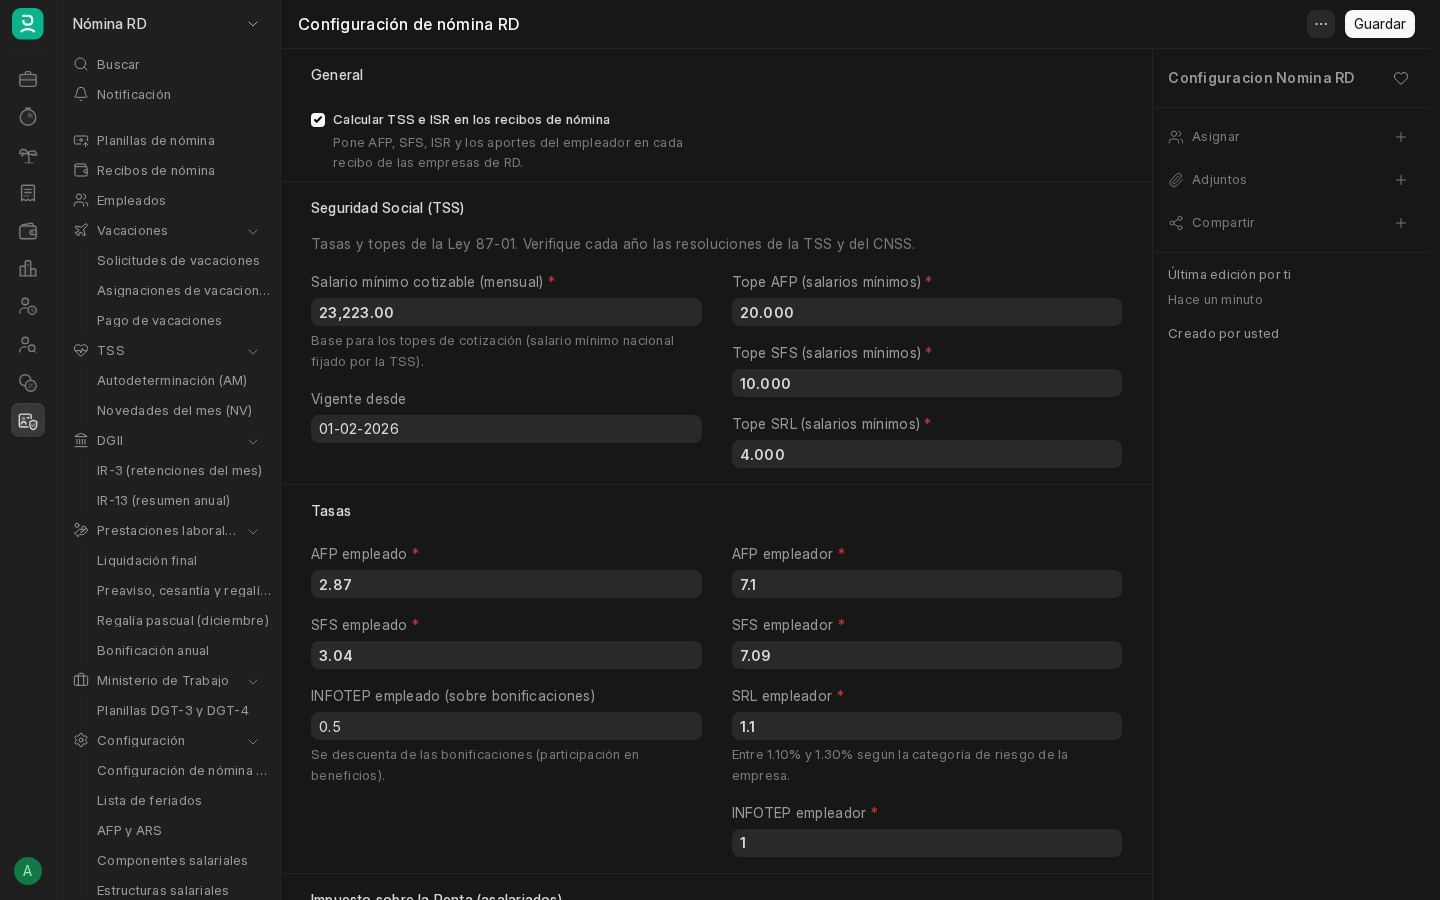
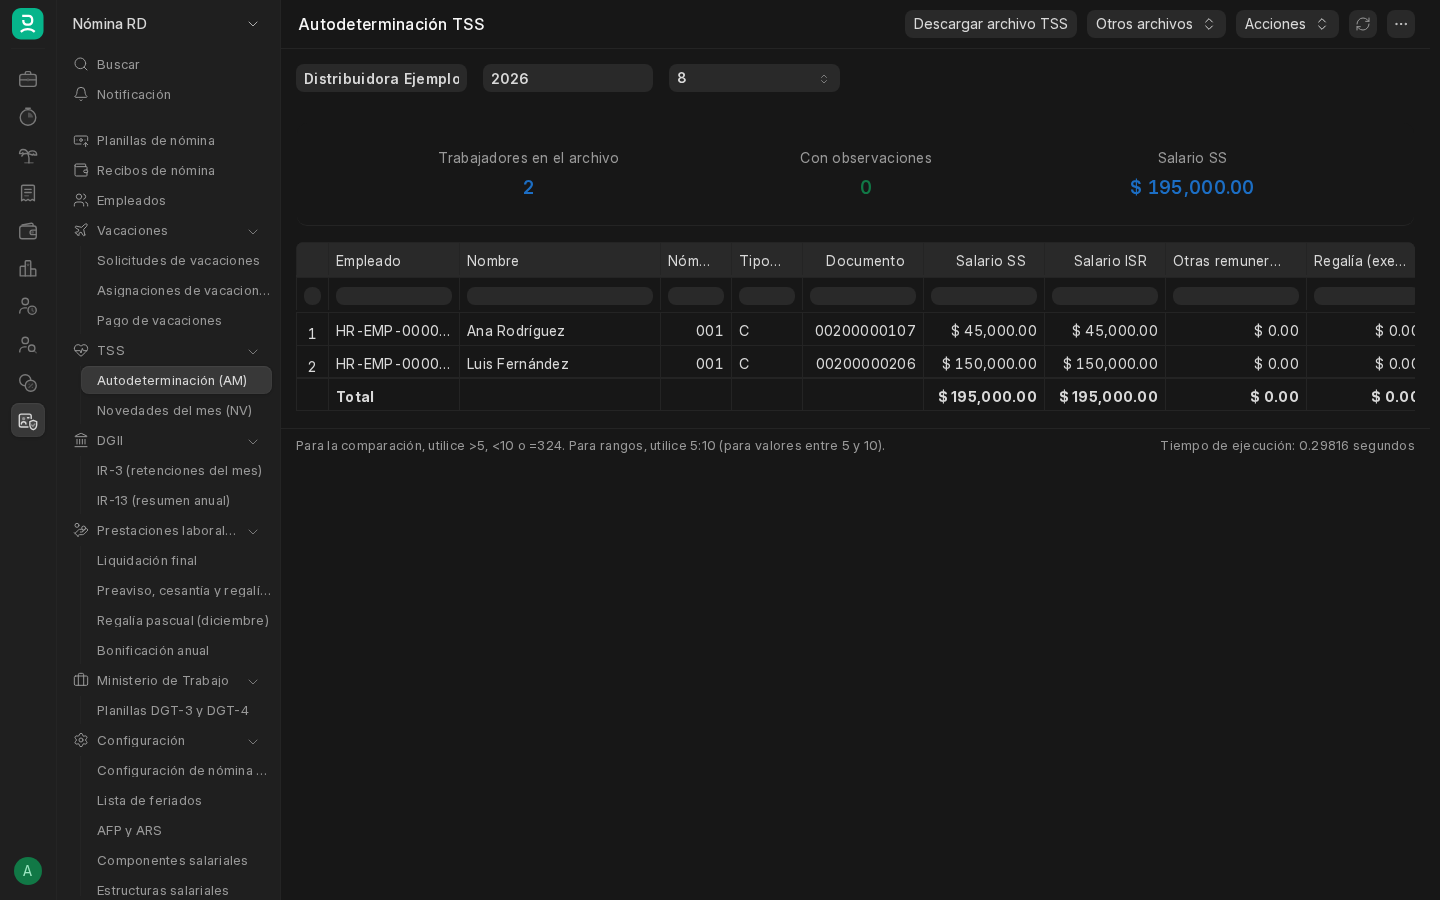
docs: capturas en tema oscuro con datos ficticios (panel, factura fiscal, TSS y volante)

diff --git a/README.md b/README.md
@@ -4,7 +4,7 @@ Localización de **República Dominicana** para ERPNext v16 y Frappe HR, libre y
 
 ## Del lado de ERPNext: cumplimiento fiscal (dock de ERPNext → *RD Compliance*)
 
-![RD Compliance: panel de cumplimiento con los plazos de la DGII, las secuencias NCF y el menú del módulo](docs/capturas/rd-compliance.png)
+![RD Compliance: panel de cumplimiento con los formatos, el IT-1 y el IR-17 del mes, sus plazos y las secuencias NCF](docs/capturas/rd-compliance.png)
 
 - **DGII Fiscal**: tipos de comprobante (B01–B17, E31–E47), secuencias NCF sin duplicados, NCF en ventas, compras y POS (las devoluciones toman la nota de crédito B04/E34 solas), validación de RNC y Cédula, catálogo de cuentas DGII (NIIF PYMES) con plantillas de ITBIS y retenciones, formatos de impresión fiscales editables en el constructor de Frappe, con un formato de factura por empresa.
 - **DGII Reportes**: formatos 606, 607, 608 y 609 con descarga del TXT oficial, y resúmenes de apoyo para el IT-1 y el IR-17.
@@ -13,9 +13,11 @@ Localización de **República Dominicana** para ERPNext v16 y Frappe HR, libre y
 - **Feriados de RD**: una lista de feriados de ERPNext, *Feriados RD*, con los feriados dominicanos y sus traslados según la Ley 139-97 (los toma de la misma librería que usa el botón "Agregar feriados locales" de ERPNext) y el domingo como día de descanso. Se crea sola, se extiende cada año hasta el 31 de diciembre del año siguiente y queda como lista por defecto de las empresas RD que no tengan otra. Lo que edites a mano (por ejemplo, un decreto que mueva un feriado) se respeta.
 - **e-CF** (facturación electrónica directa con la DGII): XML de los diez tipos (E31 a E47) y del resumen de consumo (RFCE) según los esquemas oficiales, firma digital con el certificado .p12 de la empresa, envío y consulta del resultado, reenvío automático en contingencia y entrega al comprador. Recepción de e-CF de proveedores con acuse de recibo y aprobación o rechazo comercial, anulación de rangos de e-NCF y set de pruebas para la certificación (CerteCF). Falta la certificación ante la DGII con un certificado real.
 
+![Factura Fiscal RD de crédito fiscal (B01), editable en el constructor de formatos de Frappe](docs/capturas/factura-fiscal-rd.png)
+
 ## Del lado de Frappe HR: Nómina RD (dock de Frappe HR → *Nómina RD*)
 
-![Nómina RD: configuración de la nómina con las tasas de la TSS y el menú del módulo](docs/capturas/nomina-rd.png)
+![Nómina RD: autodeterminación de la TSS del mes con el menú del módulo](docs/capturas/nomina-rd.png)
 
 Opcional: se activa sola si Frappe HR está instalado (antes o después) y se retira si se desinstala.
 
@@ -31,13 +33,15 @@ Opcional: se activa sola si Frappe HR está instalado (antes o después) y se re
 - **Ministerio de Trabajo**: archivos de la planilla del personal fijo (DGT-3) y de sus cambios (DGT-4) para el SIRLA.
 - **Configuración Nómina RD**: tasas, topes, escalas del ISR por año (incluida la de 2027, Ley 30-26) y tramos, todo editable.
 
+![Volante de pago RD con los descuentos de ley y los aportes del empleador](docs/capturas/volante-pago-rd.png)
+
 La app no modifica el código de ERPNext ni de Frappe HR: todo va por hooks, campos personalizados y configuraciones, así que se pueden actualizar sin conflictos.
 
 Toda la lógica (fiscal y de nómina) se aplica solo a las empresas con país *Dominican Republic*, así que la app convive con empresas de otros países en el mismo sitio: esas imprimen sus facturas con el formato estándar o con el que elijan en la empresa.
 
 Una prueba de punta a punta registra un mes completo (ventas, notas de crédito, anulaciones, compras con retenciones, pagos al exterior y nómina) y comprueba que el 606, 607, 608, 609, IT-1, IR-17, IR-3 y el archivo de la TSS cuadran con el libro mayor y entre sí.
 
-Paso a paso para configurar una empresa: [guía de uso](docs/GUIA-DE-USO.md).
+Paso a paso para configurar una empresa: [guía de uso](docs/GUIA-DE-USO.md). Las capturas son de un sitio de demostración con datos ficticios.
 
 ## Instalación
 

diff --git a/docs/marketplace.md b/docs/marketplace.md
@@ -30,22 +30,30 @@ Todas las tasas y escalas se editan en la configuración. Solo actúa en empresa
 
 ## Capturas (tema oscuro, 1440 × 900)
 
-| Módulo | Archivo |
+Tomadas en un sitio de demostración con empresas y datos ficticios: un mes registrado con la prueba de punta a punta (`erpnext_rd/tests/test_punta_a_punta.py`).
+
+| Captura | Archivo |
 |---|---|
-| RD Compliance: panel de cumplimiento | `docs/capturas/rd-compliance.png` |
-| Nómina RD: configuración de la nómina | `docs/capturas/nomina-rd.png` |
+| RD Compliance: panel de cumplimiento con los plazos del mes | `docs/capturas/rd-compliance.png` |
+| Factura Fiscal RD (crédito fiscal B01) | `docs/capturas/factura-fiscal-rd.png` |
+| Nómina RD: autodeterminación de la TSS | `docs/capturas/nomina-rd.png` |
+| Volante de pago RD | `docs/capturas/volante-pago-rd.png` |
 
 ![RD Compliance](capturas/rd-compliance.png)
 
+![Factura Fiscal RD](capturas/factura-fiscal-rd.png)
+
 ![Nómina RD](capturas/nomina-rd.png)
 
-Opcionales para más adelante: factura fiscal impresa, formato 606, envío e-CF aceptado, recibo de nómina y archivo de la TSS.
+![Volante de pago RD](capturas/volante-pago-rd.png)
+
+Opcionales para más adelante: formato 606 y envío e-CF aceptado (con el certificado real).
 
 ## Pendiente
 
 - [ ] Rama `version-16` (Frappe Cloud instala por rama) y tag `v0.3.0`: se crean desde `main` cuando `develop` se fusione (ver `CHANGELOG.md`).
 - [x] CI público en verde en cada PR.
-- [x] Capturas de los dos módulos (`docs/capturas/`).
+- [x] Capturas en tema oscuro con datos ficticios (`docs/capturas/`).
 - [x] Enlace de soporte (issues de GitHub con plantillas) y documentación de uso (`docs/GUIA-DE-USO.md`).
 - [x] Padrón RNC medido: descarga 46 s (zip de 23 MB) e importación de 793 985 registros en 3 min 16 s con 154 MB de memoria pico, en la cola `long`.
 - [x] Logo: `erpnext_rd/public/images/erpnext_rd_logo.svg` (`app_logo_url`).
